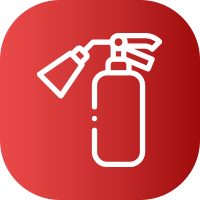
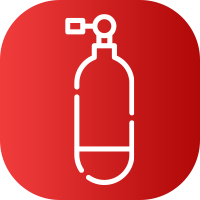
cambio de iconos

Changed region(s): [[0.18, 0.06, 0.81, 0.93]]

diff --git a/src/app/pages/home/home.component.ts b/src/app/pages/home/home.component.ts
@@ -54,13 +54,26 @@ export class HomeComponent implements OnInit {
     });
   }
 
+
   getAllCategory(){
     this.categoryService.getAll().subscribe( (category) => {
       console.log('category', category);
-      this.data_services =  category;
-      console.log('this.data_services', this.data_services);
+      category.forEach((element:any) => {
+        if(element.content != undefined && element.content.Thumbnails != undefined){
+          console.log('element', element.content.Thumbnails);
+          this.data_services.push(element.content.Thumbnails);
+        }
+      });
     });
   }
+
+  // getAllCategory(){
+  //   this.categoryService.getAll().subscribe( (category) => {
+  //     console.log('category', category);
+  //     this.data_services =  category;
+  //     console.log('this.data_services', this.data_services);
+  //   });
+  // }
 
   getAllProducts(){
     this.productService.getAll().subscribe( (product) => {

diff --git a/src/app/components/ui-kit/card/card.component.scss b/src/app/components/ui-kit/card/card.component.scss
@@ -189,7 +189,11 @@
 
 
 .service-card-primary{
+  border:1px solid #fff;
+  background: #fff;
+  border-radius: 5px;
   padding:30px 0;
+  box-shadow: -14px 1px 67px -28px rgba(0,0,0,0.2);
   .btn-products{display: none;}
   .wrapper-card{
     max-width:80%;
@@ -200,16 +204,18 @@
     h3{
       font-size: 30px;
       padding:10px 0 0 5px;
+      color: #000;
     }
   }
   .body-card{
     p{
       font-weight: 400;
+      color: #000;
     }
   }
   .ico-card{
-    max-width: 90px !important;
-    margin:0 0 25px 0 !important;
+    max-width: 60px !important;
+    margin:0 !important;
     padding:0;
   }
   .foo-card{
@@ -224,6 +230,14 @@
     }
 
   }
+
+  &:hover{
+    @include transition(0.3s);
+    border:1px solid $brand-primary;
+    box-shadow: -14px 1px 67px -28px rgba(0,0,0,0);
+  }
+
+
 }
 
 

diff --git a/src/app/components/ui-kit/header/header.component.scss b/src/app/components/ui-kit/header/header.component.scss
@@ -54,7 +54,7 @@
               font-family: 'Roboto', sans-serif;
               font-weight: 300;
               text-decoration: none;
-              padding:20px 0 20px 0;
+              padding:20px 10px 20px 10px;
               display: block;
               color: #fff;
               cursor: pointer;
@@ -62,11 +62,20 @@
                 color:$brand-primary;
               }
             }
+            &:hover{
+              opacity:0.65;
+            }
+            &.active{
+              opacity:1 !important;
+            }
             &:hover,
             &.active{
               span{
                 @include transition(0.2s);
                 width: 100%;
+              }
+              p{
+                color:$brand-primary;
               }
             }
 

diff --git a/src/app/pages/services/all-services/all-services.component.ts b/src/app/pages/services/all-services/all-services.component.ts
@@ -31,8 +31,12 @@ export class AllServicesComponent implements OnInit {
   getAllCategory(){
     this.categoryService.getAll().subscribe( (category) => {
       console.log('category', category);
-      this.data_services =  category;
-      console.log('this.data_services', this.data_services);
+      category.forEach((element:any) => {
+        if(element.content != undefined && element.content.Thumbnails != undefined){
+          console.log('element', element.content.Thumbnails);
+          this.data_services.push(element.content.Thumbnails);
+        }
+      });
     });
   }
 

diff --git a/src/app/components/ui-kit/card/card.component.ts b/src/app/components/ui-kit/card/card.component.ts
@@ -30,7 +30,7 @@ export class CardComponent implements OnInit {
 
   ngOnInit(): void {
     this.typeImg = typeof this.Data.img;
-    console.log('this.typeImg', this.typeImg);
+    console.log('this.Data', this.Data);
 
 
 

diff --git a/src/app/components/ui-kit/grid-card/grid-card.component.scss b/src/app/components/ui-kit/grid-card/grid-card.component.scss
@@ -27,6 +27,7 @@
     grid-template-columns: 33% 33% 33%;
     grid-auto-flow: dense;
     column-gap: 25px;
+    row-gap: 25px;
     @include respond-to($iphone_xs) {
       grid-template-columns: 100%;
       row-gap: 20px;
